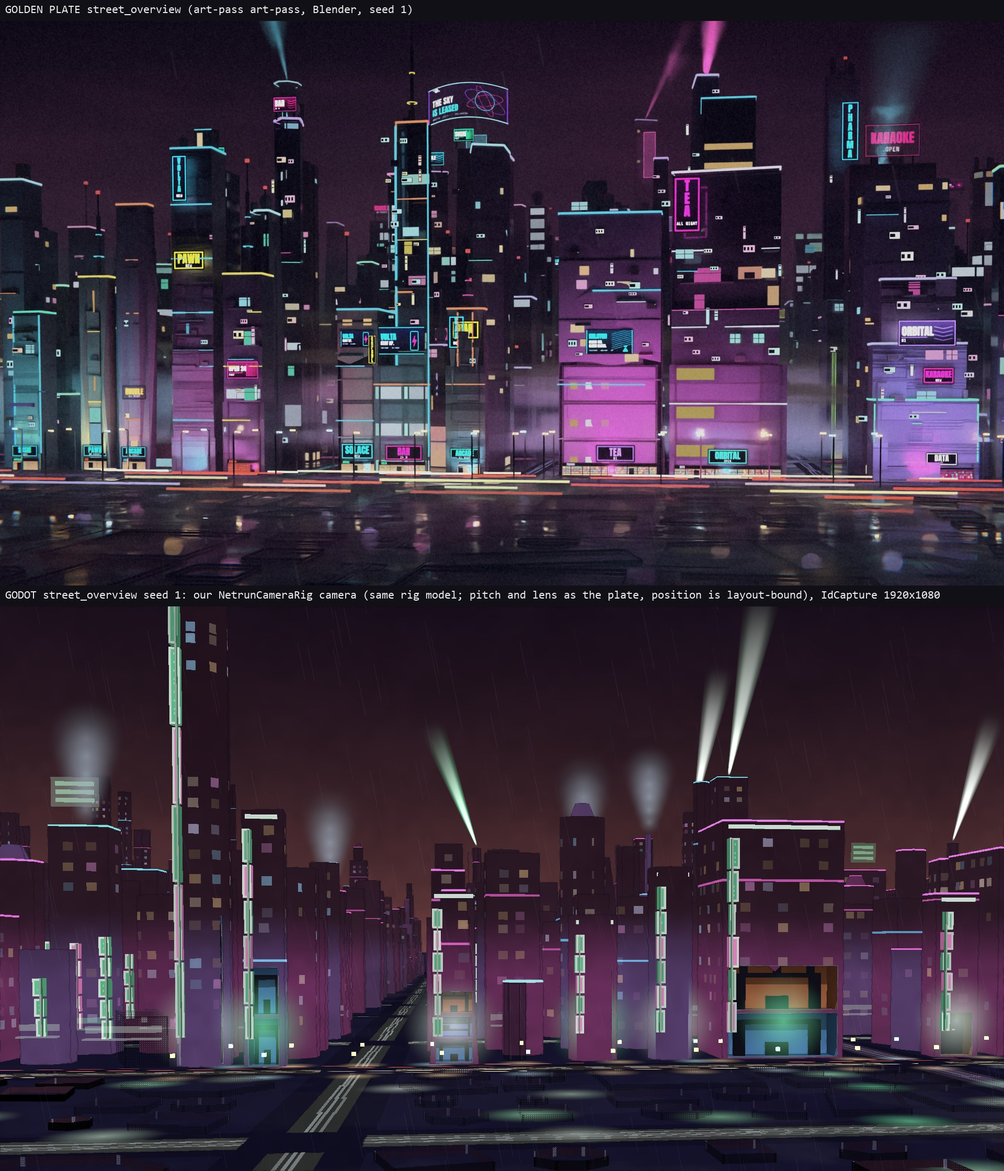
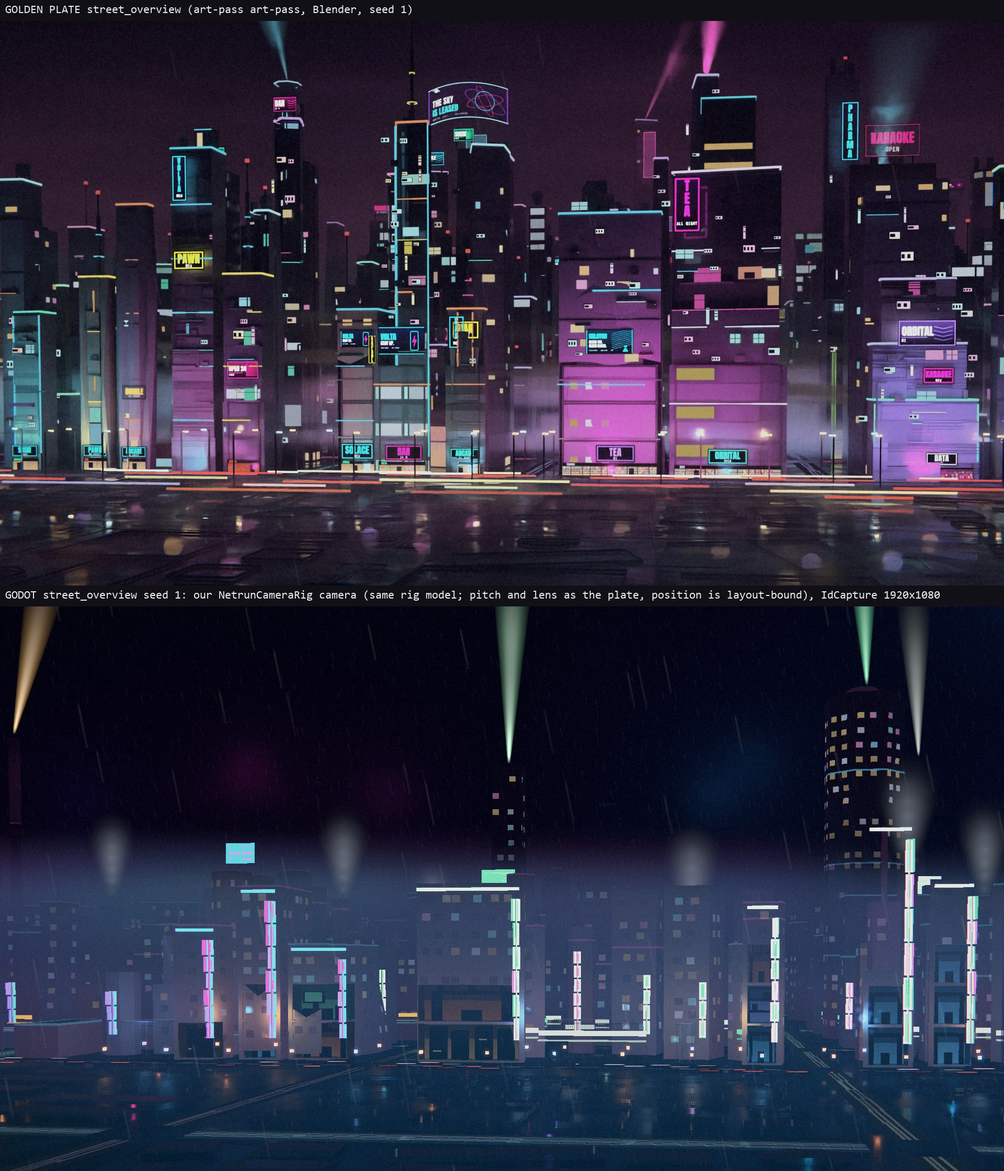
P1+P5 street look parity: wet plinth tops + SSR, opaque streaks, concrete families, exposure solve (overview 0.3977, decision 0.3103), fog calibration, DECISIONS, parity sheets

diff --git a/docs/DECISIONS.md b/docs/DECISIONS.md
@@ -34,6 +34,20 @@ search every ruling with `grep -rn "<topic>" docs/DECISIONS.md docs/decisions/`.
 
 ## Implementation decisions
 
+### 2026-10-19 - Street look parity P1 + P5: the MATERIAL_SPEC "Realistic night" (AAA-2) on the netrun street (A-020 / A-022 / B-002, B-004, B-008)
+- Scope: only look_blend above 0 (the route rig holds 1). The mainline city keeps the cel look: `set_look_blend(0)` restores the key light, the background, ambient, SSR and the mainline post (`aaa_on` false), tested. No toon bands, no ink at 1 (the AAA post path skips the ink pass). New `CityShaderConfigData.aaa` block (pbr, emit, world, lights, post, grit, ssr, exposure_solve; schema smoke + REQUIRED keys), every number there or in `city_shaders.tres` / `street_route.tres`, no literal in code.
+- Post chain (`city_post.gdshader`, `aaa_*` uniforms, `NetrunShaderKitAaa`): exposure, 3-radius bloom (sigma 4.5 / 18 / 101.25 px at 1920, weights 0.12 / 0.10 / 0.08, threshold 1.2: gaussian tap spirals read at the mip that covers their spacing, because Godot has no emission buffer), hue-preserving ACES shoulder, 3 procedural rain layers, shadow tint (0.25, 0.45, 0.6) x 0.30 and highlight tint x 0.25 (read as multiplicative tints on the tone-mapped value: the spec gives colours and weights, not the blend), vignette 0.38, sRGB, contrast 1.12, knee 0.66 to 0.93, CA 2.4 px (taken on the input taps), grain 0.03. Exposure moved out of the Environment (stays linear 1) into the post (`CityView3D.set_aaa_exposure`).
+- Godot copies the screen texture BEFORE the transparent pass, so nothing transparent is bloomed or reflected. The emitters that must are now opaque: `dress_sign` (yield fade is a dither discard), the new `dress_solid` (shop strips, awnings, billboards, lamp heads) and `streak_lane` (discard where there is no streak). Beams, plumes and flicker overlays stay additive and take the exposure themselves (`RouteRig._scale_transparent_emitters`).
+- Emissive hierarchy (`aaa.emit`): hero 4.0 and secondary 2.6 sign panels (`dress_sign.tier_emit`), shop 1.5, backdrop (billboards) 2.4, lamp heads 8.0, windows 0.9 (`building.win_emit`, spread 0.72..1), trims 1.0 (`trim_emit`, `edge_emit`, `band_emit`). Mega 3.0 and lit panels 4.0 are in the config; nothing on the street draws them yet (the room panels are NA-25b's files).
+- PBR: `city_building` light() is a Lambert + GGX of each light's own colour (concrete rough 0.55 / spec 0.5, glass panes 0.12 / metal 0.2 for unlit windows, concrete families of the plates by building seed); the cut near-side block tops are the wet plinth top (0.045, 0.045, 0.054, roughness noise 0.32 to 0.03, spec 0.7, an up normal) so SSR (`aaa.ssr`) and the lamp pools reach the near street. Per-triangle tone jitter is off at 1 (Eevee only in the plates).
+- World: flat colour (0.006, 0.006, 0.014) as background and ambient, the key light is the moon (0.05, (0.55, 0.62, 1.0), Blender rot (40, 0, 30) converted to world axes); the `city_sky` gradient is no longer used at 1 (file kept; `NetrunShaderKit.apply_sky` kept for its test).
+- Lights (`StreetLightRig`, from `StreetDressing.light_sources`, within a budget of at most 64 lamps + 48 glows + 24 facade washes + route washes + 18 city glow + 6 beam spots): kerb lamps 60 W warm / cool, glows 20 W, route washes 1500 W (70 deg), facade washes 2400 W (60 deg), as OmniLight / SpotLight with energy = watts x `omni_k` 0.2 / `spot_k` 0.003 (calibrated by eye: Cycles watts are not Godot units; the unit factors are the open number, `lights.*`). Godot's fog also honours the light cull mask, so a "fog-only" light is energy / 16 on surfaces with the fog multiplier at its cap 16 (`city_glow.energy` 40, `beam.energy` 40 are the fog radiance). The emissive ground / wall discs that stood in for lights are hidden (`lights.hide_discs`); placement is untouched (lamp_z 1.6 stays the dot height, the light sits at the spec's 4.5 BU head height).
+- Fog: spec numbers at the cores (peak 0.1521, anisotropy 0.45, h_front 15.4 / h_sky 28.6 so the e-fold is 28.6 above 7.7, ground band 0.12 to 2.2 BU, mid banks 0.105, sky haze 0.0042 above 28.6, backdrop haze 0.012 by depth 30..120). The volume was 96 BU long: Godot repeats the last froxel slice beyond it, which turned every far building to fog at the real density; the length now follows the camera (`fog_length_for`: dist + 260, at most 700) with 96 x 128 froxels. OPEN NUMBER: our value noise is not as sparse as the Blender noise, so the street keeps a body calibration `atmosphere.density_overview / decision` 0.12 (was 0.02 under the 96 BU volume), the haze terms keep spec density; the fog self-glow gain `emit_gain` 10 (was 40).
+- Facet grit (`NetrunFgrid`, `CityView3D.grit_filter`): buildings within `grit.reach` 70 BU of the street segment (route buildings excluded: their room windows are cut from a thin box of the wall plane) are each their own one-instance mesh of flat triangles: cell 1.7 BU, nu 2..12, nv 2..30, jitter 0.28 cell along the wall, 0.12 BU along the normal, from the building's prism key (pure hash, no RNG); walls under 2 BU wide or 3 BU tall are two triangles.
+- Exposure solve (`tools/netrun_art/exposure_solve.py`, windowed lab runs): seed 1 street, median luma 0.14: OVERVIEW 0.3977 (median 0.1405, under 0.10: 41 %, over 0.85: 1.2 %), DECISION 0.3103 (0.1392, 42 %, 1.3 %) into `street_route.look.exposure`. The spec's 30 % under 0.10 and under 1 % over 0.85 are NOT met: our frame has a black sky (the plate's is lit haze) and the hero columns / signs still clip; both are P2-P4 and fog-lighting work.
+- Perf (windowed, 1080p, this PC): OVERVIEW viewport GPU mean 10.0 ms, p95 11.6 ms; DECISION mean 10.9 ms, p95 11.2 ms (NA-25b dive p95 was about 24 ms); the volumetric fog and the 150-odd lights fit.
+- Still open for P2-P4: facade kit (windows read tiny, no sign blocks), the hero blade columns, sign placement; the plate's sky haze.
+
 ### 2026-10-19 - W1 close: the street netrun builds on the campaign's own city
 - `StreetRouteView.build_data`, `NetrunScene` (both street builds) and the labs (na23, na25, motion) read `CityPlan.current_seed()` instead of `cfg.city_seed`; `dump_game_worlds.gd` defaults to the same. No other `cfg.city_seed` reader sits on the netrun / street / HQ path (the rest are fixed-city goldens, the exporter CLI defaults and `CityConfig` itself).
 - `test_na23_route_flow` and the raid-sway test of `test_horizontal_pass20_city` no longer pin city_seed 0. The sway test now asserts the rule (whole sway inside the corporation's own territory; other territories share only by Site reach) instead of "zero at the fixed city's HQ corner". The occlusion-restore test asserts on the decision rows (no longer conditional on the fixed city's geometry).
